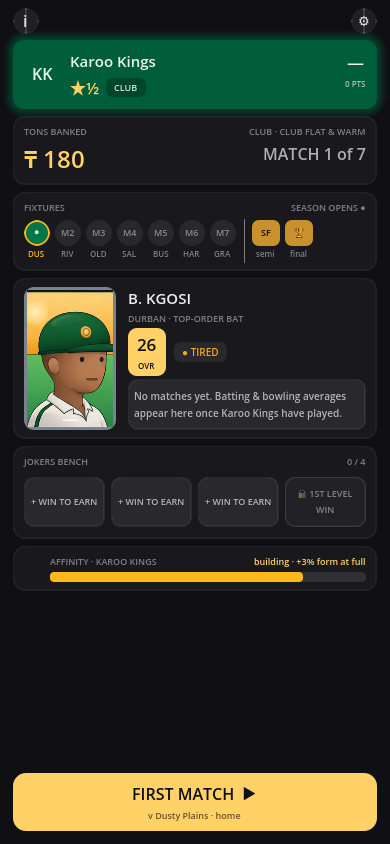
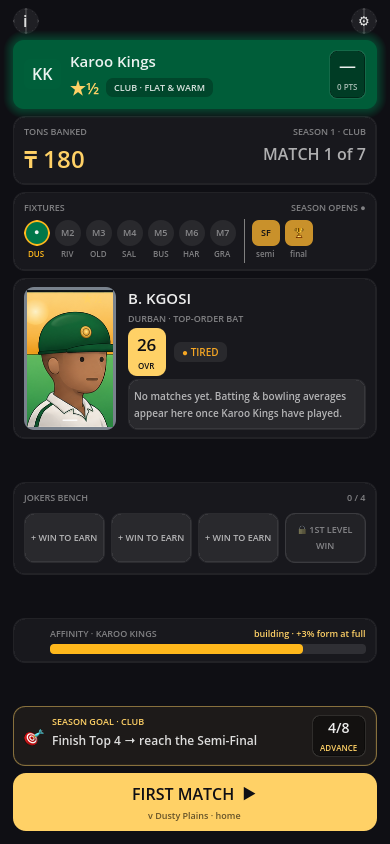
fix: Season Hub hi-fi v2 polish — design-track review fixes + Season Goal strip (#83)
Off the updated GODOT-AI-PROMPT.md review of the v2 build:
- position pill is now a real dark PanelContainer (rgba(0,0,0,.35)+border) — the '—' no longer floats bare on the green header
- conditions copy 'CLUB · FLAT & WARM' (was 'CLUB · CLUB FLAT & WARM' — level word repeated); tons band shows 'SEASON n · CLUB' (n from CareerState.seasons_played)
- new Season Goal strip (gold-tinted): 🎯 'SEASON GOAL · CLUB' / 'Finish Top 4 → reach the Semi-Final' + '4/8 · ADVANCE' pill
- vertical rhythm: distribute lower slack across even spacers (SpA/SpB/GoalSpacerTop) so no dead gap in the lower third

677 tests green.

diff --git a/docs/superpowers/specs/2026-06-18-season-hub-hifi-v2-spec.md b/docs/superpowers/specs/2026-06-18-season-hub-hifi-v2-spec.md
@@ -16,6 +16,13 @@ You are updating the **Season Hub** scene in my Godot cricket game (mobile, port
 - **No full league table on this screen.** Standing is shown only by the header position pill + the fixtures chain. (Tapping the pill opens a separate table screen — just stub the signal.)
 - **No hardcoded hex values.** Build ONE `Theme` resource with the tokens below and reference it everywhere, so the country palette can be swapped by overriding 4 tokens.
 
+## Layout / vertical rhythm (IMPORTANT)
+The device is taller than the reference's design ratio, so don't just top-stack the panels and pin the CTA — that leaves a dead gap in the lower third. Either give the panel `VBox` **even spacing** (size flags so the gaps between panels expand evenly), or rely on the **Season Goal strip** above to fill it. Aim for the screen to read as deliberately spaced, not half-empty.
+
+## Two nits seen in the last build
+- **Position pill** must keep its dark rounded background (`rgba(0,0,0,.35)`, 1px border, radius 7). A bare `—` floating on the green header reads as a stray dash.
+- **Conditions copy** — render `CLUB · FLAT & WARM`, not `CLUB · CLUB FLAT & WARM` (don't repeat the level word).
+
 ## Node tree
 ```
 SeasonHub (Control, full-rect, margin 13)
@@ -35,6 +42,8 @@ SeasonHub (Control, full-rect, margin 13)
    │  └─ Header "JOKERS BENCH" + "0/4" · HBox: Joker x4
    ├─ Affinity (PanelContainer)
    │  └─ HBox: 🤝 · VBox[label + next-bonus ⟷ / ProgressBar]
+   ├─ SeasonGoal (PanelContainer — faint gold tint, gold border)
+   │  └─ HBox: 🎯 · VBox["SEASON GOAL · CLUB" / "Finish Top 4 → reach the Semi-Final"] · TargetPill["4/8" / "ADVANCE"]
    └─ CTA (Button, gold gradient, 2 lines: "FIRST MATCH ▶" / "v Dusty Plains · home")
 ```
 Every `PanelContainer` = bg `surface`, 1px `border`, corner_radius 11, content margin 9 (v) × 11 (h).
@@ -77,6 +86,8 @@ System font. Sizes(px): labels 8.5–9 (UPPERCASE, +1.6 letter-spacing, weight 8
 **Jokers bench** — 4 slots. Empty = dashed border, "+ Win to earn". Slot 4 locked = "🔒 1st Level win". When filled later, apply rarity skins: common (plain), rare (blue border+glow), legendary (gold border + purple gradient).
 
 **Affinity** — handshake icon + "AFFINITY · KAROO KINGS" label + right "building · +3% form at full" + a thin ProgressBar (~12%) filled `country-2 → country-accent`.
+
+**Season Goal strip** (between Affinity and the CTA) — fills the lower third with stakes, not filler. Faint gold-tinted panel, gold border. Left: 🎯 icon + "SEASON GOAL · CLUB" label + "Finish **Top 4** → reach the Semi-Final". Right: a small dark target pill "4/8 · ADVANCE". This tells a new player what the season is *for*.
 
 **CTA** — full-width gold gradient button, 2 lines: "FIRST MATCH ▶" (use "NEXT MATCH" after match 1) and small "v Dusty Plains · home".
 
